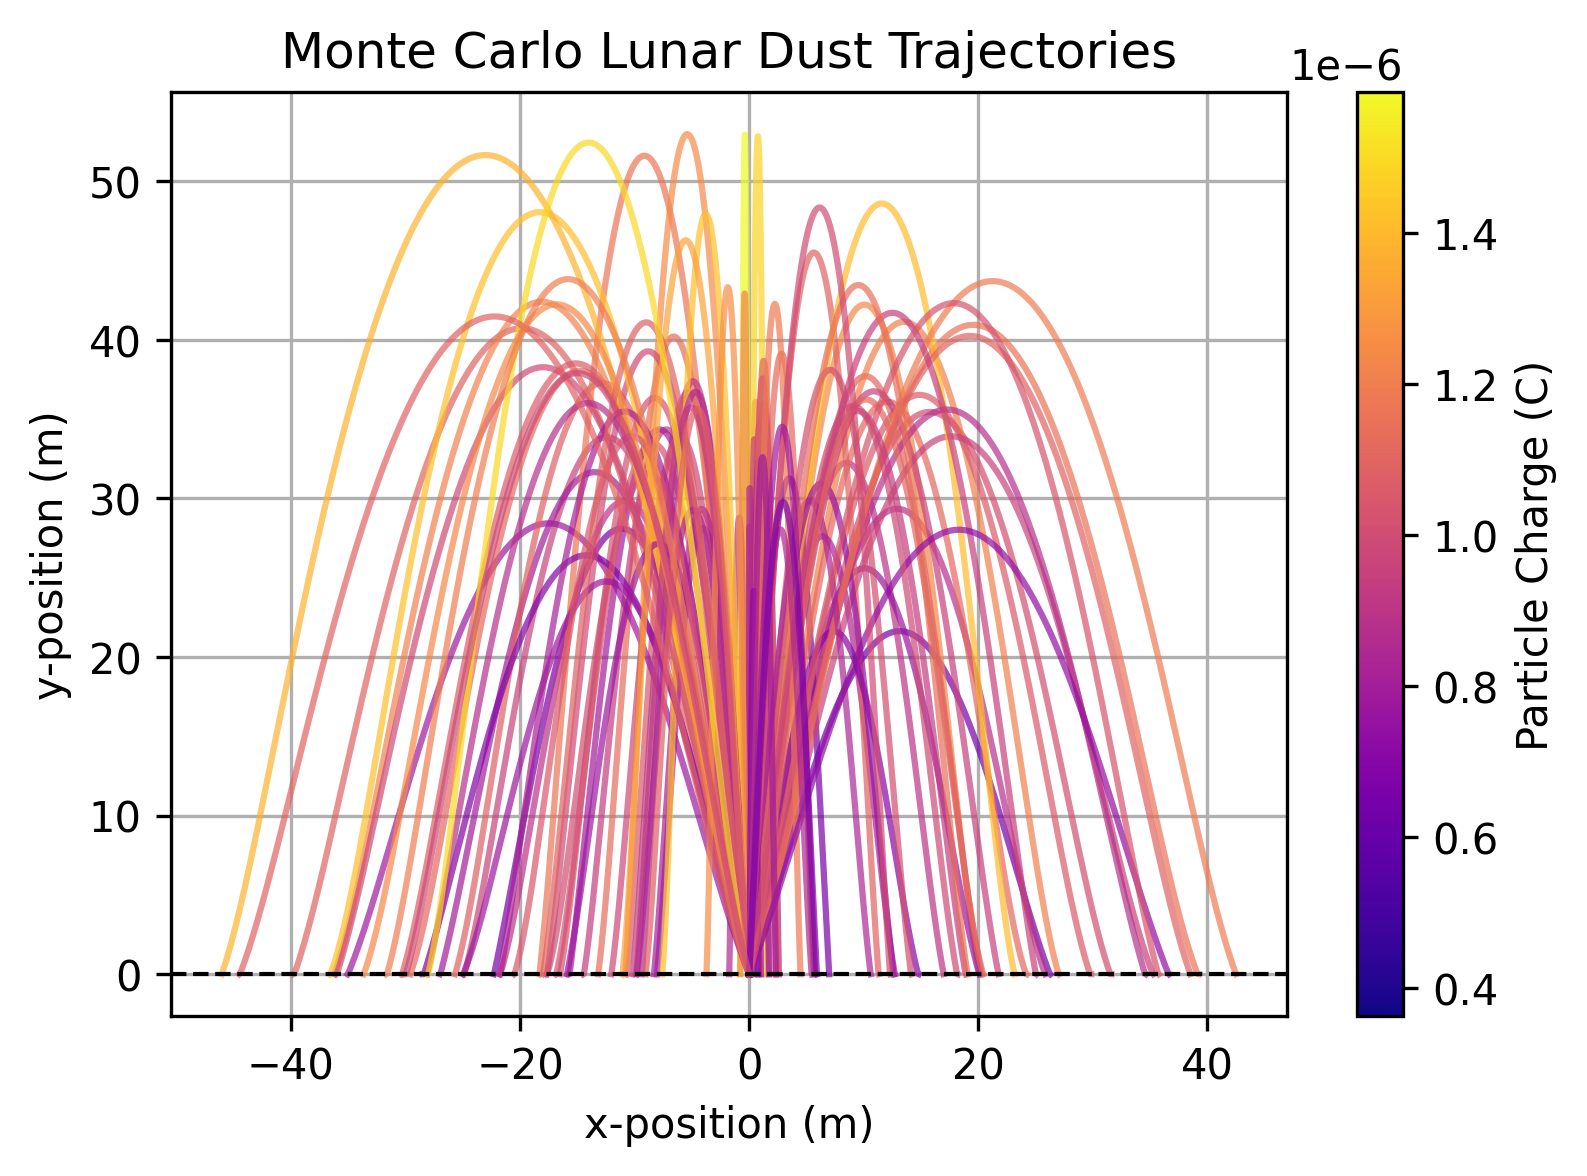
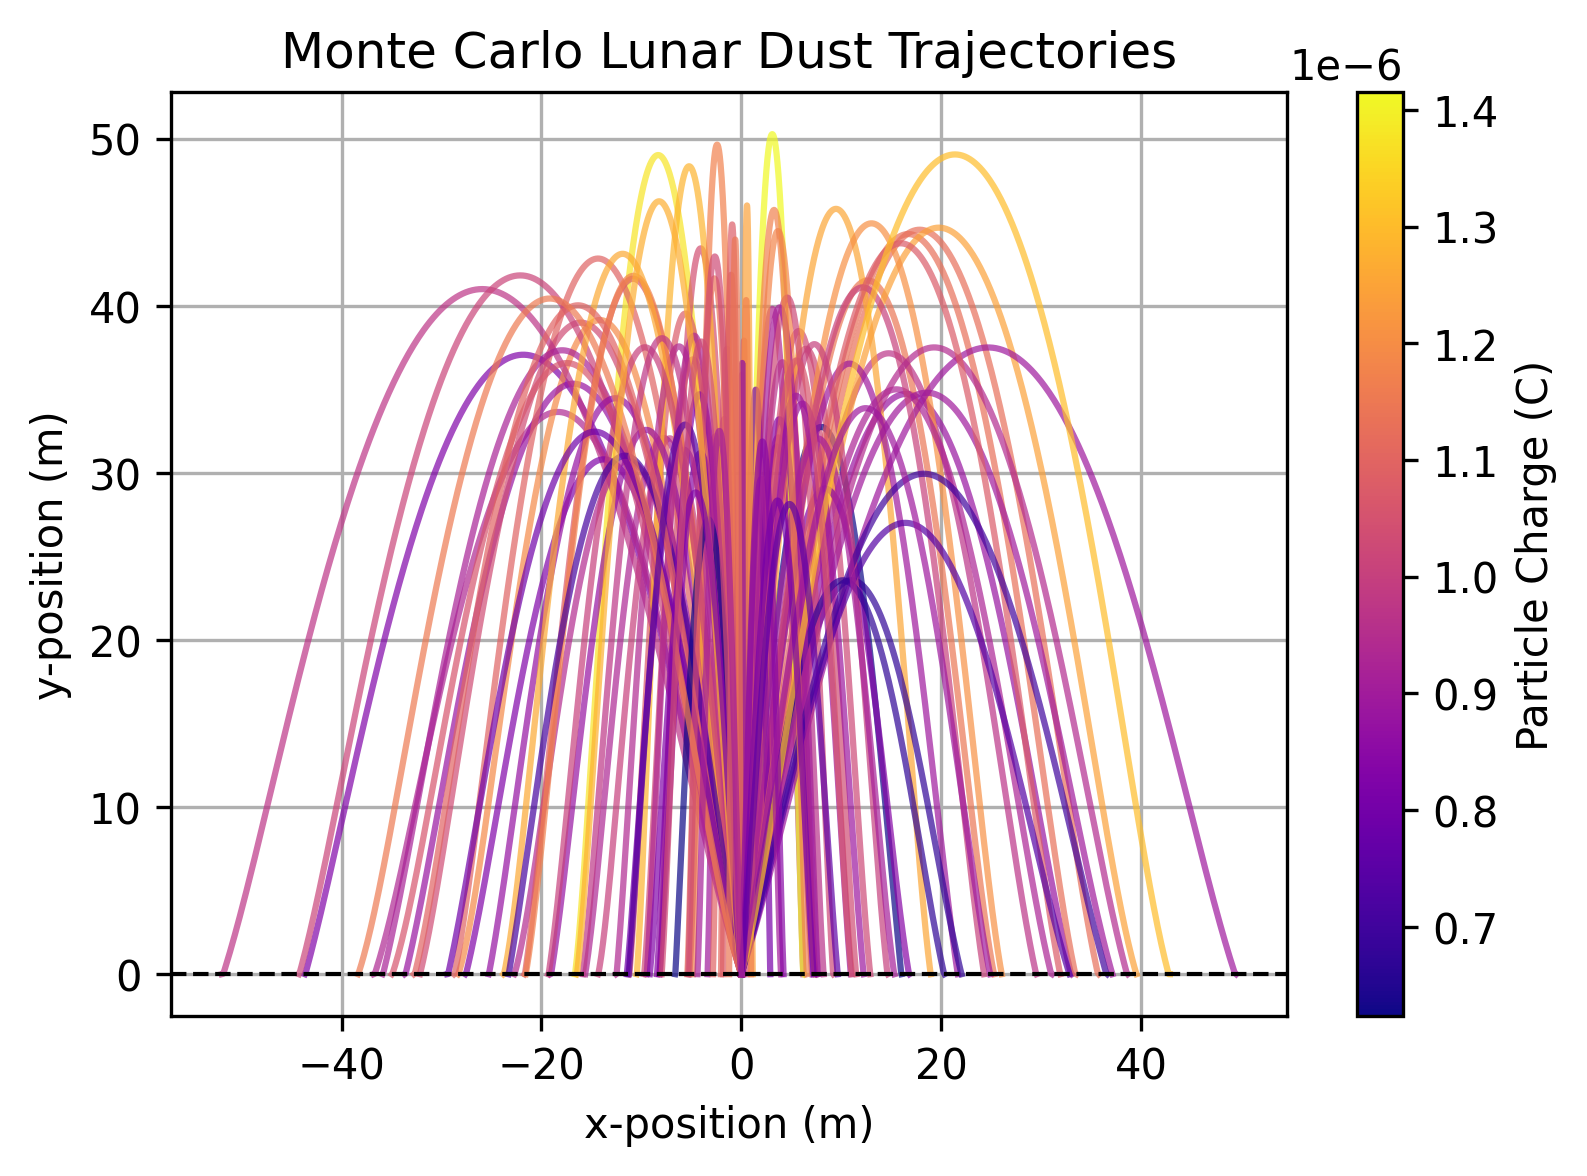
statistical analysis of results

diff --git a/src/analysis.py b/src/analysis.py
@@ -1,0 +1,88 @@
+# -*- coding: utf-8 -*-
+"""
+Created on Sun May 17 10:43:38 2026
+
+@author: jessv
+"""
+
+import numpy as np
+
+def landing_distance(trajectories):
+    """
+    Computes final x-position for each particle.
+
+    Parameters
+    trajectories : (np.ndarray): Shape: [particle, timestep, state_variable]
+
+    Returns
+        (np.ndarray): Final landing x-positions
+    """
+    
+    return trajectories[:,-1,0]
+
+def max_heights(trajectories):
+    """
+    Computes maximum height reached by each particle.
+
+    Parameters
+        trajectories : (np.ndarray)
+
+    Returns
+        (np.ndarray): Maximum y-position for each particle
+    """
+    
+    return np.max(trajectories[:,:,1], axis=1)
+
+def airborne_durations(trajectories, dt):
+    """
+    Estimates airborne duration for each particle.
+
+    Parameters
+        trajectories : (np.ndarray)
+
+        dt : (float): Simulation timestep
+
+    Returns
+        (np.ndarray): Estimated airborne durations
+    """
+    
+    num_particles = trajectories.shape[0]
+    durations = np.full(num_particles, np.nan)
+    
+    for i in range(num_particles):
+        y = trajectories[i,:,1]
+        
+        #ignore particles that never leave the ground
+        if np.max(y) < 0.01:
+            durations[i] = np.nan
+            continue
+        else:
+            pass
+        
+        indices = np.where(y <= 0)[0]
+        
+        if len(indices > 1):
+            landing_step = indices[0] + 1 
+            durations[i] = landing_step * dt
+            
+        else:
+            durations[i] = np.nan
+            
+        return durations
+    
+def summarize_metric(values, label):
+    """
+    Prints summary statistics for a metric.
+
+    Parameters
+        values : (np.ndarray)
+
+        label : (str): Metric name
+    """
+   
+    print(f"\n--- {label} ---")
+
+    print(f"Mean: {np.nanmean(values):.3f}")
+    print(f"Std Dev: {np.nanstd(values):.3f}")
+    print(f"Min: {np.nanmin(values):.3f}")
+    print(f"Max: {np.nanmax(values):.3f}")

diff --git a/main.py b/main.py
@@ -10,6 +10,7 @@ from src.simulation import particle_derivatives1, particle_derivatives2
 from src.integrator import rk4_step
 from src.monte_carlo import particle_population_generator
 from src.visualization import plot_trajectories, plot_landing_distribution
+from src.analysis import landing_distance, max_heights, airborne_durations, summarize_metric
 
 # Monte Carlo Population Parameters
 NUM_PARTICLES = 100
@@ -30,7 +31,7 @@ L = 10.0 #m
 
 MASS = 1e-3 #kg
 
-SEED = 4223
+SEED = 500
 
 #Time Integration Parameters
 DT = 0.05
@@ -111,3 +112,21 @@ print(trajectories[0, -1, :])
 
 plot_trajectories(trajectories, charges)
 plot_landing_distribution(trajectories)
+
+# Statistical Analysis
+# --------------------------------------------------
+
+landing_x = landing_distance(trajectories)
+
+max_heights = max_heights(trajectories)
+
+flight_times = airborne_durations(
+    trajectories,
+    DT
+)
+
+summarize_metric(landing_x, "Landing Distance (m)")
+
+summarize_metric(max_heights, "Maximum Height (m)")
+
+summarize_metric(flight_times, "Airborne Duration (s)")